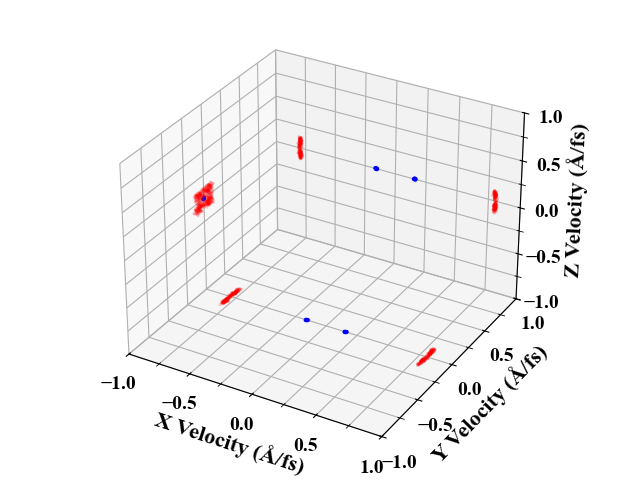
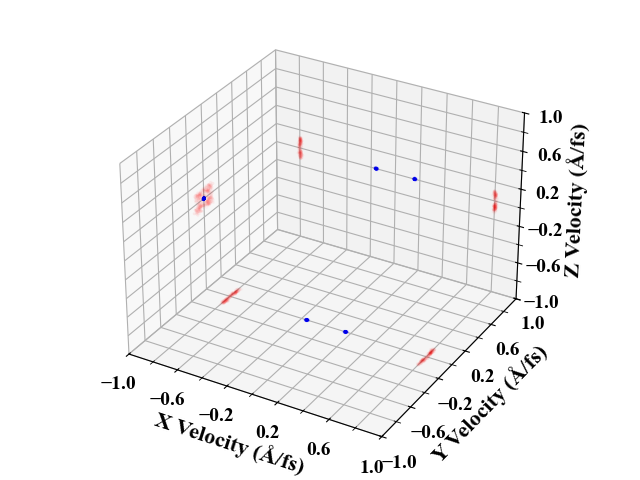
added figures for the CCE paper

diff --git a/scripts/newton_plot.py b/scripts/newton_plot.py
@@ -16,10 +16,12 @@ EPSILON = 1e-10
 mpl.rcParams['font.family'] = 'Times New Roman'
 mpl.rcParams['font.weight'] = 'bold'
 mpl.rcParams['axes.labelweight'] = 'bold'
-mpl.rcParams['axes.labelsize'] = 16  # increase label font size
-mpl.rcParams['xtick.labelsize'] = 14  # increase x tick font size
-mpl.rcParams['ytick.labelsize'] = 14  # increase y tick font size
-mpl.rcParams['legend.fontsize'] = 14  # Legend font size
+mpl.rcParams['axes.labelsize'] = 14  # increase label font size
+mpl.rcParams['xtick.labelsize'] = 12  # increase x tick font size
+mpl.rcParams['ytick.labelsize'] = 12  # increase y tick font size
+mpl.rcParams['legend.fontsize'] = 12  # Legend font size
+# either make axis label 14, then ticks and legend 12
+# or make axis label 16, then ticks and legend 14
 
 class NewtonPlot:
     def __init__(self, SHOW_PLOT=False,SHOW_TITLE=False,SHOW_LEGEND=False):
@@ -31,6 +33,7 @@ class NewtonPlot:
         self.c_mass = 12.0107  # in g/mol
         self.o_mass = 15.9994  # in g/mol
         self.n_mass = 14.0067  # in g/mol
+        self.axis_subdivide = 5  # Number of sub-divisions on each axis
         
         # Dictionary for fragments and data
         self.fragments_x_vel_data = {}
@@ -339,8 +342,8 @@ class NewtonPlot:
             nitrogen_x_vel = self.nitrogen_x_velocities
             nitrogen_y_vel = self.nitrogen_y_velocities
 
-        plt.scatter(carbon_x_vel, carbon_y_vel, color='b', alpha=alpha, label='Carbon')
         plt.scatter(hydrogen_x_vel, hydrogen_y_vel, color='r', alpha=alpha, label='Hydrogen')
+        plt.scatter(carbon_x_vel, carbon_y_vel, color='b', alpha=alpha, label='Carbon')
         plt.scatter(oxygen_x_vel, oxygen_y_vel, color='g', alpha=alpha, label='Oxygen')
         plt.scatter(nitrogen_x_vel, nitrogen_y_vel, color='y', alpha=alpha, label='Nitrogen')
         plt.xlabel('X Velocity (Å/fs)')
@@ -389,8 +392,8 @@ class NewtonPlot:
             nitrogen_x_vel = self.nitrogen_x_velocities
             nitrogen_z_vel = self.nitrogen_z_velocities
 
-        plt.scatter(carbon_x_vel, carbon_z_vel, color='b', alpha=alpha, label='Carbon')
         plt.scatter(hydrogen_x_vel, hydrogen_z_vel, color='r', alpha=alpha, label='Hydrogen')
+        plt.scatter(carbon_x_vel, carbon_z_vel, color='b', alpha=alpha, label='Carbon')
         plt.scatter(oxygen_x_vel, oxygen_z_vel, color='g', alpha=alpha, label='Oxygen')
         plt.scatter(nitrogen_x_vel, nitrogen_z_vel, color='y', alpha=alpha, label='Nitrogen')
         plt.xlabel('X Velocity (Å/fs)')
@@ -438,8 +441,8 @@ class NewtonPlot:
             nitrogen_y_vel = self.nitrogen_y_velocities
             nitrogen_z_vel = self.nitrogen_z_velocities
 
-        plt.scatter(carbon_y_vel, carbon_z_vel, color='b', alpha=alpha, label='Carbon')
         plt.scatter(hydrogen_y_vel, hydrogen_z_vel, color='r', alpha=alpha, label='Hydrogen')
+        plt.scatter(carbon_y_vel, carbon_z_vel, color='b', alpha=alpha, label='Carbon')
         plt.scatter(oxygen_y_vel, oxygen_z_vel, color='g', alpha=alpha, label='Oxygen')
         plt.scatter(nitrogen_y_vel, nitrogen_z_vel, color='y', alpha=alpha, label='Nitrogen')
         plt.xlabel('Y Velocity (Å/fs)')
@@ -553,8 +556,8 @@ class NewtonPlot:
         ax1 = fig1.add_subplot(111, projection='3d')  # Create a 3D subplot
 
         # Scatter plot of the carbon velocities in 3D space
-        ax1.scatter(C_X, C_Y, C_Z, c='b', marker='.', label='Carbon', alpha=alpha)  # Plot with blue dots, slightly transparent
         ax1.scatter(H_X, H_Y, H_Z, c='r', marker='.', label='Hydrogen', alpha=alpha)  # Plot with red dots, slightly transparent
+        ax1.scatter(C_X, C_Y, C_Z, c='b', marker='.', label='Carbon', alpha=alpha)  # Plot with blue dots, slightly transparent
         ax1.scatter(O_X, O_Y, O_Z, c='g', marker='.', label='Oxygen', alpha=alpha)  # Plot with blue dots, slightly transparent
         ax1.scatter(N_X, N_Y, N_Z, c='y', marker='.', label='Nitrogen', alpha=alpha)  # Plot with red dots, slightly transparent
 
@@ -568,14 +571,17 @@ class NewtonPlot:
             ax1.set_title(graph_scatter_title)
         
         # Set major ticks to show only every other tick
-        ax1.set_xticks(np.arange(lim_3d_x_lower, lim_3d_x_upper+EPSILON, (abs(lim_3d_x_upper) + abs(lim_3d_x_lower)) / 5))
-        ax1.set_yticks(np.arange(lim_3d_x_lower, lim_3d_x_upper+EPSILON, (abs(lim_3d_y_upper) + abs(lim_3d_y_lower)) / 5))
-        ax1.set_zticks(np.arange(lim_3d_x_lower, lim_3d_x_upper+EPSILON, (abs(lim_3d_z_upper) + abs(lim_3d_z_lower)) / 5))
+        ax1.set_xticks(np.arange(lim_3d_x_lower, lim_3d_x_upper + EPSILON, 
+                     (abs(lim_3d_x_upper) + abs(lim_3d_x_lower)) / self.axis_subdivide))
+        ax1.set_yticks(np.arange(lim_3d_x_lower, lim_3d_x_upper+EPSILON, 
+                     (abs(lim_3d_y_upper) + abs(lim_3d_y_lower)) / self.axis_subdivide))
+        ax1.set_zticks(np.arange(lim_3d_x_lower, lim_3d_x_upper+EPSILON, 
+                     (abs(lim_3d_z_upper) + abs(lim_3d_z_lower)) / self.axis_subdivide))
 
         # Set minor ticks
-        ax1.xaxis.set_minor_locator(MultipleLocator((abs(lim_3d_x_upper) + abs(lim_3d_x_lower)) / 10))
-        ax1.yaxis.set_minor_locator(MultipleLocator((abs(lim_3d_y_upper) + abs(lim_3d_y_lower)) / 10))
-        ax1.zaxis.set_minor_locator(MultipleLocator((abs(lim_3d_z_upper) + abs(lim_3d_z_lower)) / 10))
+        ax1.xaxis.set_minor_locator(MultipleLocator((abs(lim_3d_x_upper) + abs(lim_3d_x_lower)) / (2*self.axis_subdivide)))
+        ax1.yaxis.set_minor_locator(MultipleLocator((abs(lim_3d_y_upper) + abs(lim_3d_y_lower)) / (2*self.axis_subdivide)))
+        ax1.zaxis.set_minor_locator(MultipleLocator((abs(lim_3d_z_upper) + abs(lim_3d_z_lower)) / (2*self.axis_subdivide)))
         
         if self.show_legend:
             plt.legend()
@@ -611,17 +617,12 @@ class NewtonPlot:
         c_ny = np.ones_like(N_Y) * lim_3d_y_upper  # Constant Y for XZ projection at the top edge of the plot
         c_nz = np.ones_like(N_Z) * lim_3d_z_lower  # Constant Z for XY projection at the bottom edge of the plot
 
-
-        # Scatter plots for the projections onto the XY, XZ, and YZ planes of carbon
-        ax2.scatter(C_X, C_Y, cz, c='b', marker='.', lw=0, alpha=alpha)  # XY projection, color by Z
-        ax2.scatter(C_X, cy, C_Z, c='b', marker='.', lw=0, alpha=alpha)  # XZ projection, color by negative Y
-        ax2.scatter(cx, C_Y, C_Z, c='b', marker='.', lw=0, alpha=alpha)  # YZ projection, color by X
         
         # Scatter plots for the projections onto the XY, XZ, and YZ planes of hydrogen
         ax2.scatter(H_X, H_Y, c_hz, c='r', marker='.', lw=0, alpha=alpha)  # XY projection, color by Z
         ax2.scatter(H_X, c_hy, H_Z, c='r', marker='.', lw=0, alpha=alpha)  # XZ projection, color by negative Y
         ax2.scatter(c_hx, H_Y, H_Z, c='r', marker='.', lw=0, alpha=alpha)  # YZ projection, color by X
-
+        
         # Scatter plots for the projections onto the XY, XZ, and YZ planes of oxygen
         ax2.scatter(O_X, O_Y, c_oz, c='g', marker='.', lw=0, alpha=alpha)  # XY projection, color by Z
         ax2.scatter(O_X, c_oy, O_Z, c='g', marker='.', lw=0, alpha=alpha)  # XZ projection, color by negative Y
@@ -632,20 +633,28 @@ class NewtonPlot:
         ax2.scatter(N_X, c_ny, N_Z, c='y', marker='.', lw=0, alpha=alpha)  # XZ projection, color by negative Y
         ax2.scatter(c_nx, N_Y, N_Z, c='y', marker='.', lw=0, alpha=alpha)  # YZ projection, color by X
 
+        # Scatter plots for the projections onto the XY, XZ, and YZ planes of carbon
+        ax2.scatter(C_X, C_Y, cz, c='b', marker='.', lw=0, alpha=alpha)  # XY projection, color by Z
+        ax2.scatter(C_X, cy, C_Z, c='b', marker='.', lw=0, alpha=alpha)  # XZ projection, color by negative Y
+        ax2.scatter(cx, C_Y, C_Z, c='b', marker='.', lw=0, alpha=alpha)  # YZ projection, color by X
+        
         # Set the limits of the second plot to be the same as the first plot
         ax2.set_xlim3d(lim_3d_x_lower, lim_3d_x_upper)
         ax2.set_ylim3d(lim_3d_y_lower, lim_3d_x_upper)
         ax2.set_zlim3d(lim_3d_z_lower, lim_3d_x_upper)
         
         # Set major ticks to show only every other tick
-        ax2.set_xticks(np.arange(lim_3d_x_lower, lim_3d_x_upper+EPSILON, (abs(lim_3d_x_upper) + abs(lim_3d_x_lower)) / 5))
-        ax2.set_yticks(np.arange(lim_3d_x_lower, lim_3d_x_upper+EPSILON, (abs(lim_3d_y_upper) + abs(lim_3d_y_lower)) / 5))
-        ax2.set_zticks(np.arange(lim_3d_x_lower, lim_3d_x_upper+EPSILON, (abs(lim_3d_z_upper) + abs(lim_3d_z_lower)) / 5))
+        ax2.set_xticks(np.arange(lim_3d_x_lower, lim_3d_x_upper+EPSILON, 
+                        (abs(lim_3d_x_upper) + abs(lim_3d_x_lower)) / self.axis_subdivide))
+        ax2.set_yticks(np.arange(lim_3d_x_lower, lim_3d_x_upper+EPSILON, 
+                        (abs(lim_3d_y_upper) + abs(lim_3d_y_lower)) / self.axis_subdivide))
+        ax2.set_zticks(np.arange(lim_3d_x_lower, lim_3d_x_upper+EPSILON, 
+                        (abs(lim_3d_z_upper) + abs(lim_3d_z_lower)) / self.axis_subdivide))
 
         # Set minor ticks
-        ax2.xaxis.set_minor_locator(MultipleLocator((abs(lim_3d_x_upper) + abs(lim_3d_x_lower)) / 10))
-        ax2.yaxis.set_minor_locator(MultipleLocator((abs(lim_3d_y_upper) + abs(lim_3d_y_lower)) / 10))
-        ax2.zaxis.set_minor_locator(MultipleLocator((abs(lim_3d_z_upper) + abs(lim_3d_z_lower)) / 10))
+        ax2.xaxis.set_minor_locator(MultipleLocator((abs(lim_3d_x_upper) + abs(lim_3d_x_lower)) / (2*self.axis_subdivide)))
+        ax2.yaxis.set_minor_locator(MultipleLocator((abs(lim_3d_y_upper) + abs(lim_3d_y_lower)) / (2*self.axis_subdivide)))
+        ax2.zaxis.set_minor_locator(MultipleLocator((abs(lim_3d_z_upper) + abs(lim_3d_z_lower)) / (2*self.axis_subdivide)))
 
         # Set axis labels for the second plot
         ax2.set_xlabel('X Velocity (Å/fs)', fontweight='bold')
@@ -687,44 +696,45 @@ class NewtonPlot:
 def main():
     print("-=GENERATING NEWTON PLOT=-")
     newton_plot = NewtonPlot()
-    data_mode = "c"
+    data_mode = "q"
     user_input_mode = False
     alpha = 0.2  #set alpha =0.2 for c4h10 and =0.03 for c2h2
-    lim_2d_left=-1
-    lim_2d_right=1
-    lim_2d_bottom=-1
-    lim_2d_top=1
-    lim_3d_x_lower=-1
-    lim_3d_x_upper=1
-    lim_3d_y_lower=-1
-    lim_3d_y_upper=1
-    lim_3d_z_lower=-1
-    lim_3d_z_upper=1
+    lim_2d_left=-1.3
+    lim_2d_right=1.3
+    lim_2d_bottom=-1.3
+    lim_2d_top=1.3
+    lim_3d_x_lower=-1.3
+    lim_3d_x_upper=1.3
+    lim_3d_y_lower=-1.3
+    lim_3d_y_upper=1.3
+    lim_3d_z_lower=-1.3
+    lim_3d_z_upper=1.3
+    newton_plot.axis_subdivide = 4
 
     
 
     if (data_mode.lower().startswith('c')):
         #CLASSICAL INPUT FILE:
-        input_file = 'data\\c4h10_classical\\14\\atom_info.csv'
-        input_file = 'data\\c4h10_classical\\28\\atom_info.csv'
         input_file = 'data\\isoxazole_classical\\atom_info.csv'
         input_file = 'data\\c2h2_classical\\atom_info.csv'
+        input_file = 'data\\c4h10_classical\\14\\atom_info.csv'
+        input_file = 'data\\c4h10_classical\\28\\atom_info.csv'
         graph_name_tag="classical"
         
     if (data_mode.lower().startswith('q')):
         #QUANTUM INPUT FILE:
-        input_file = 'data\\c4h10_quantum\\14\\moleculeFormations_14.csv'
-        input_file = 'data\\c4h10_quantum\\28\\moleculeFormations_14.csv' 
         input_file = 'data\\isoxazole_quantum\\moleculeFormations_14.csv' 
         input_file = 'data\\c2h2_quantum\\moleculeFormations_14.csv'
+        input_file = 'data\\c4h10_quantum\\28\\moleculeFormations_28.csv' 
+        input_file = 'data\\c4h10_quantum\\14\\moleculeFormations_14.csv'
         graph_name_tag="quantum"
 
     if (data_mode.lower().startswith('s')):
         #SEMI-CLASSICAL INPUT FILE:
-        input_file = 'data\\c4h10_semi_classical\\14\\atom_info.csv'
-        input_file = 'data\\c4h10_semi_classical\\28\\atom_info.csv'
         input_file = 'data\\isoxazole_semi_classical\\atom_info.csv'
         input_file = 'data\\c2h2_semi_classical\\atom_info.csv'
+        input_file = 'data\\c4h10_semi_classical\\14\\atom_info.csv'
+        input_file = 'data\\c4h10_semi_classical\\28\\atom_info.csv'
         graph_name_tag="semi-classical"
 
     
